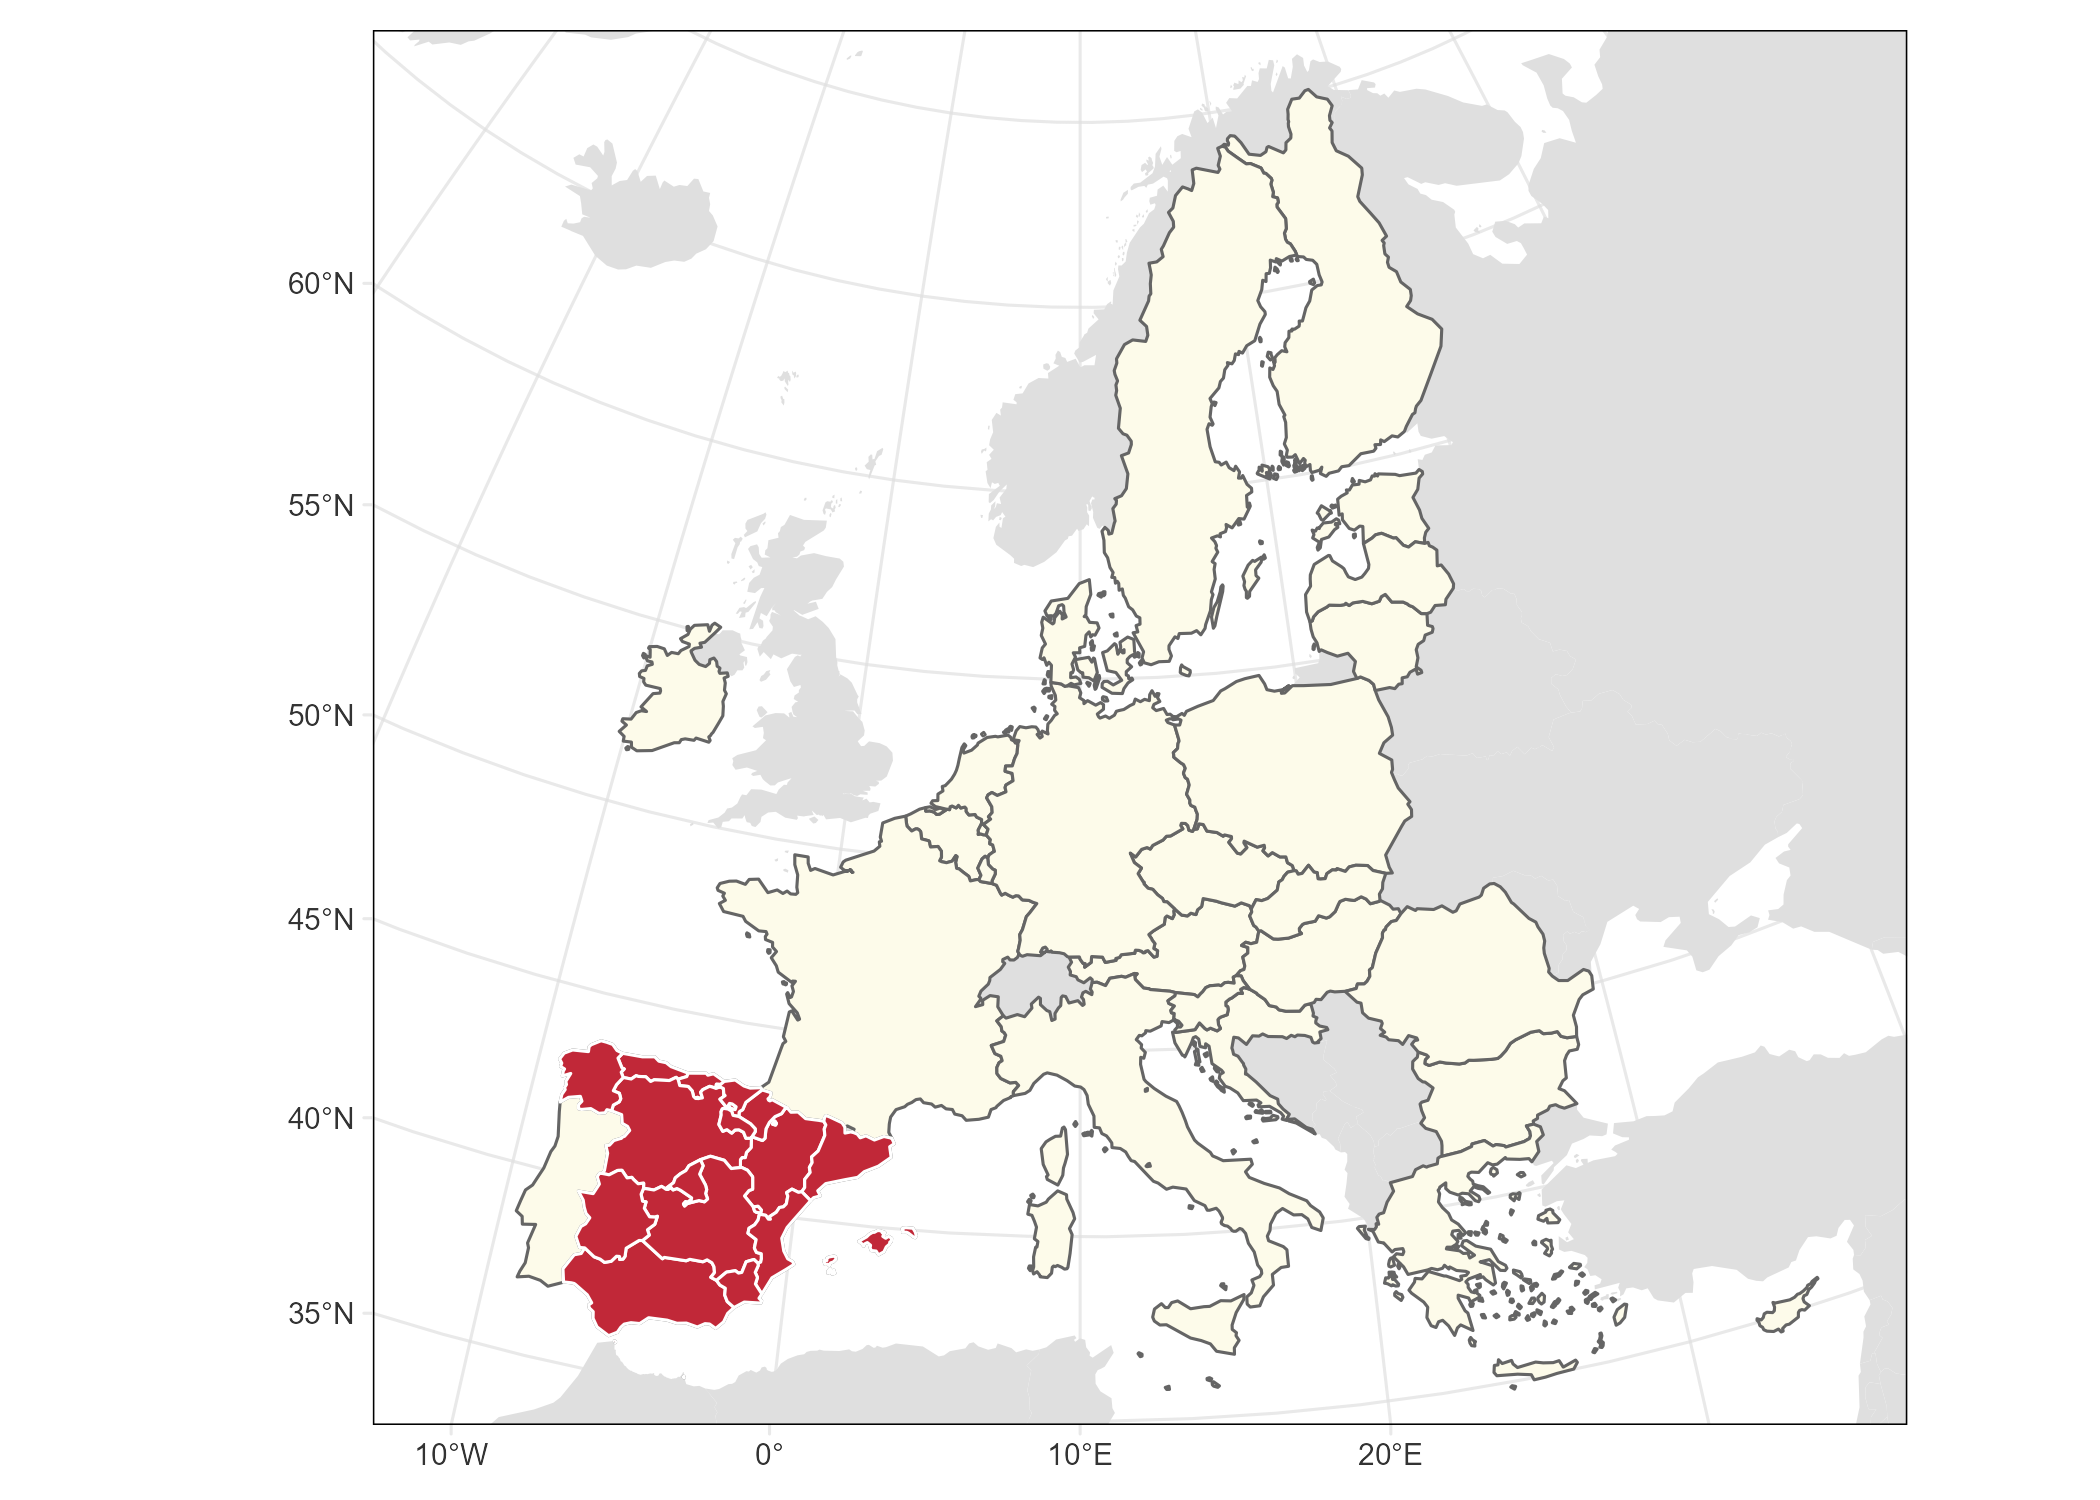
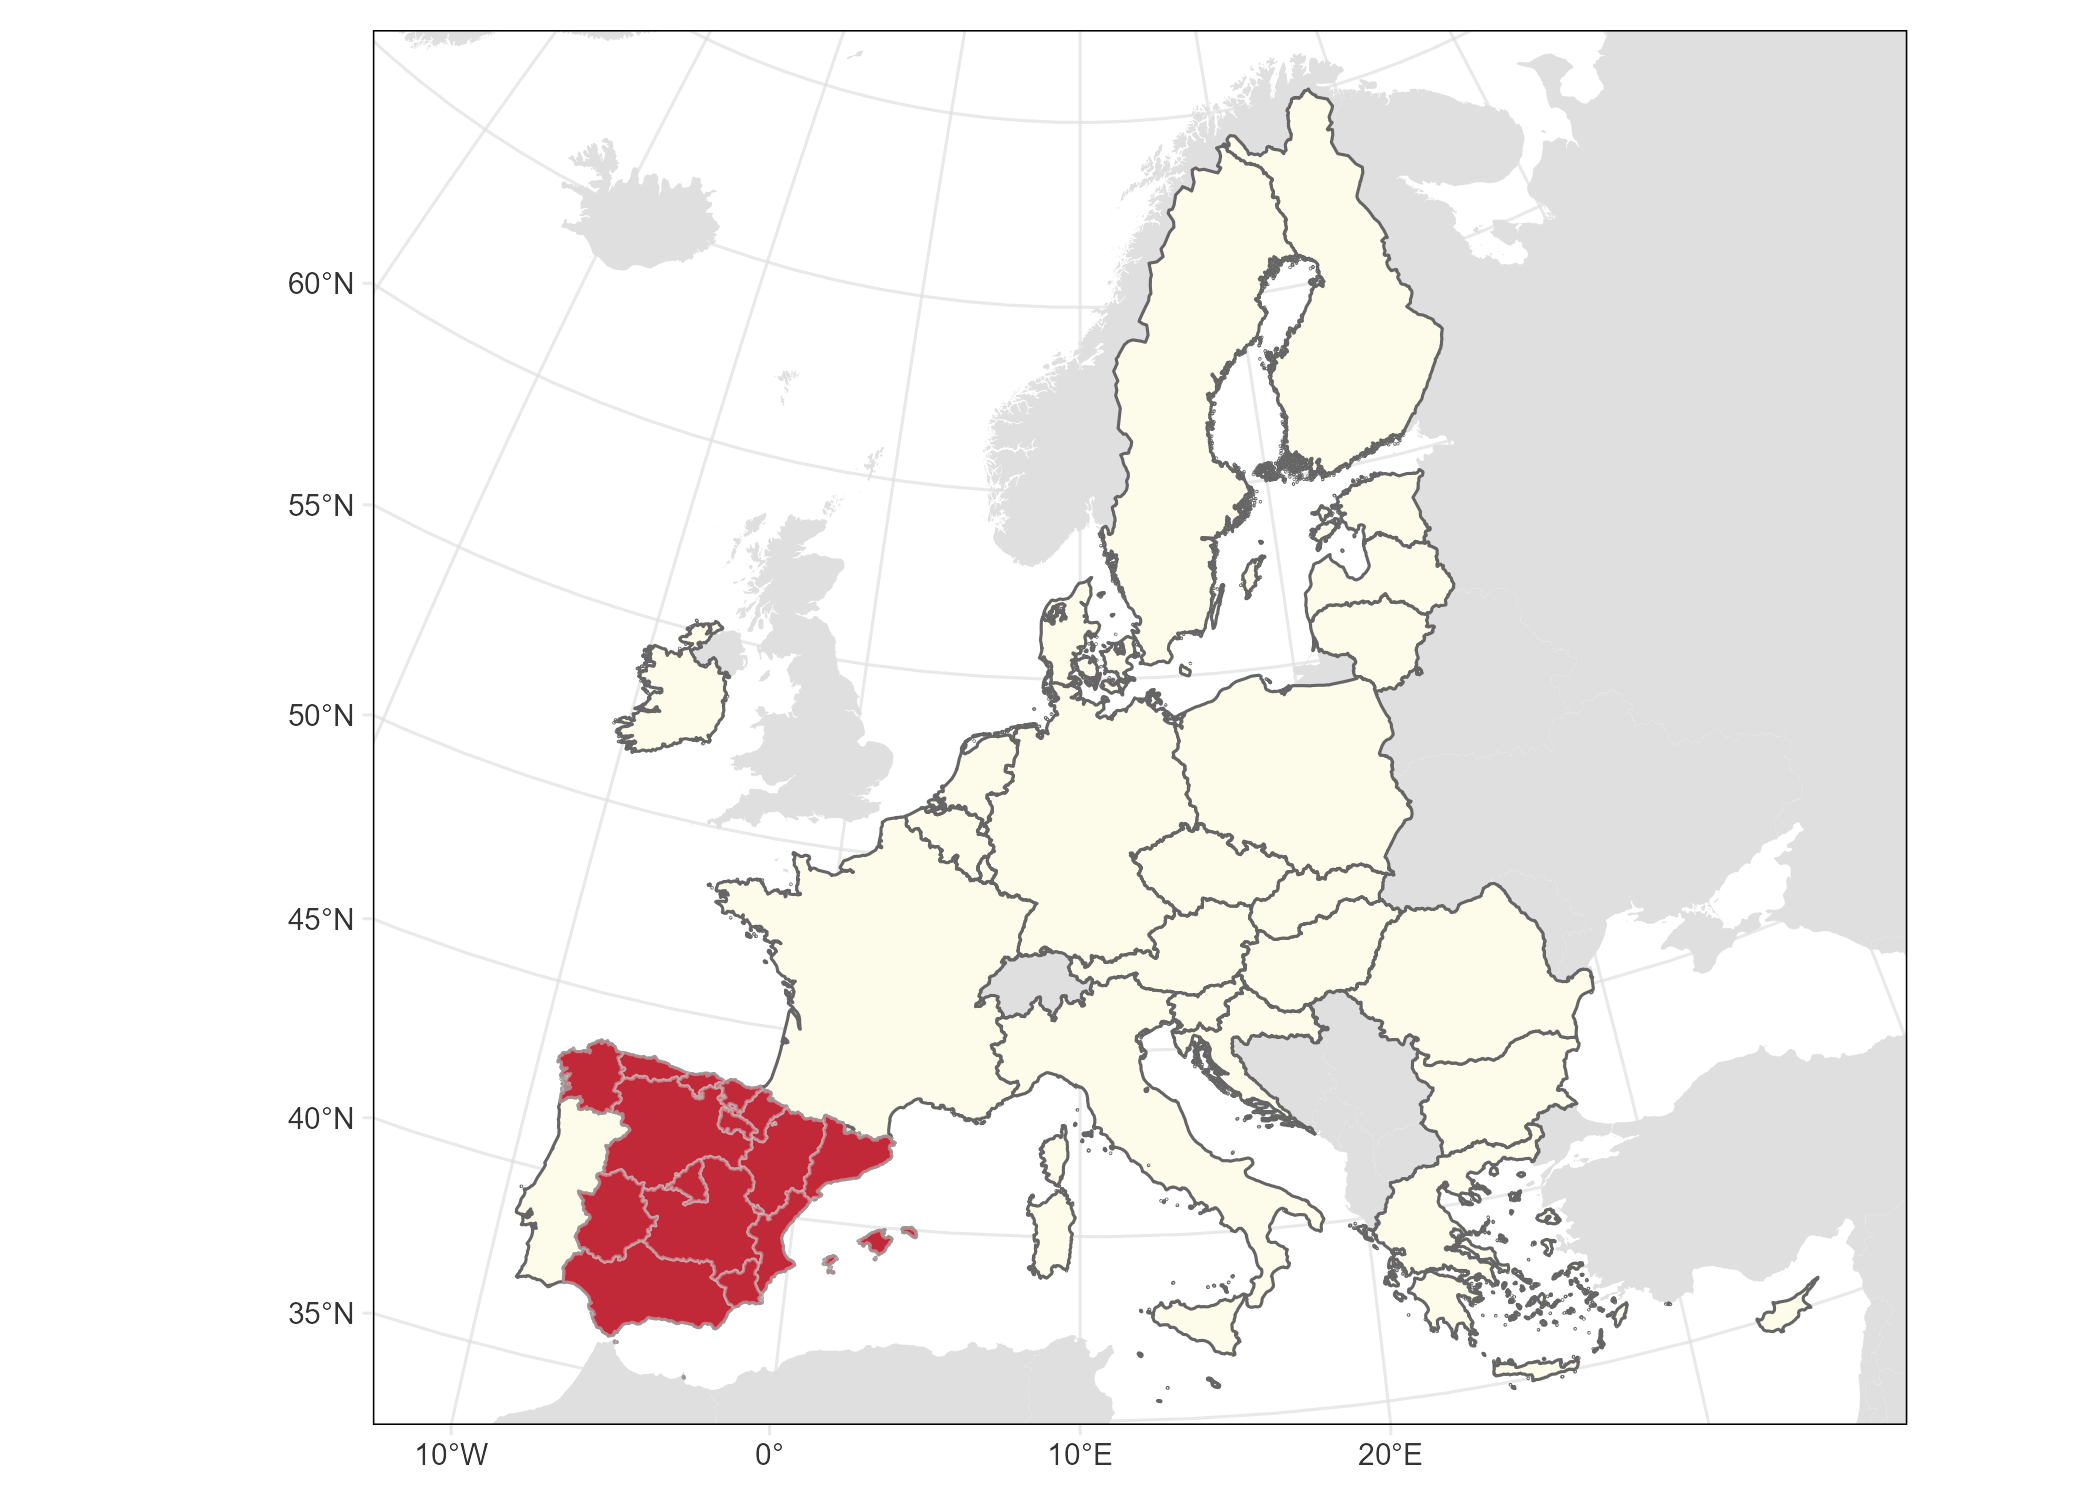
Rebuild README

diff --git a/README.md b/README.md
@@ -171,7 +171,7 @@ library(giscoR)
 
 # Set the same resolution for a perfect fit
 
-res <- "20"
+res <- "03"
 
 all_countries <- gisco_get_countries(resolution = res)
 eu_countries <- gisco_get_countries(resolution = res, region = "EU")
@@ -192,7 +192,7 @@ tm_shape(all_countries, bbox = c(23, 14, 67, 54) * 10e4) +
   tm_shape(eu_countries) +
   tm_polygons("#FDFBEA", border.col = "#656565") +
   tm_shape(ccaa) +
-  tm_polygons("#C12838", border.col = "white")
+  tm_polygons("#C12838", border.col = "grey80", border.alpha = 0.5)
 ```
 
 <img src="https://raw.githubusercontent.com/ropenspain/mapSpain/master/img/README-giscoR-1.png" width="100%" />
